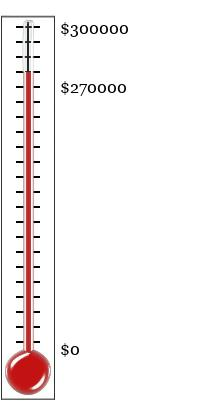
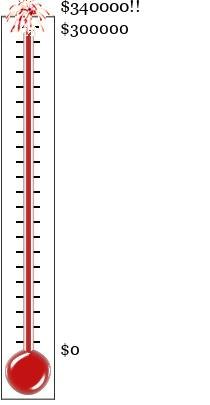
Pineapple (so far) + Facebook + Community takes us to $340K

Changed region(s): [[0.0286, 0.0, 0.2571, 0.1778], [0.2857, 0.0, 0.6857, 0.0593], [0.2857, 0.1778, 0.6, 0.237]]

diff --git a/contributors.html b/contributors.html
@@ -117,6 +117,8 @@ $5000 or more, and display your logo for donations of $10,000 or more.
 <LI> Gold: $25,000 to $50,000
 <UL>
 <LI><A HREF=http://www.yandex.com>Yandex</A>
+<LI><A HREF=http://www.facebook.com>Facebook Inc.</A>
+<LI><A HREF=https://pineapplefund.org>Pineapple Fund</A>
 </UL>
 <LI> Silver: $10,000 to $25,000
 <UL>
